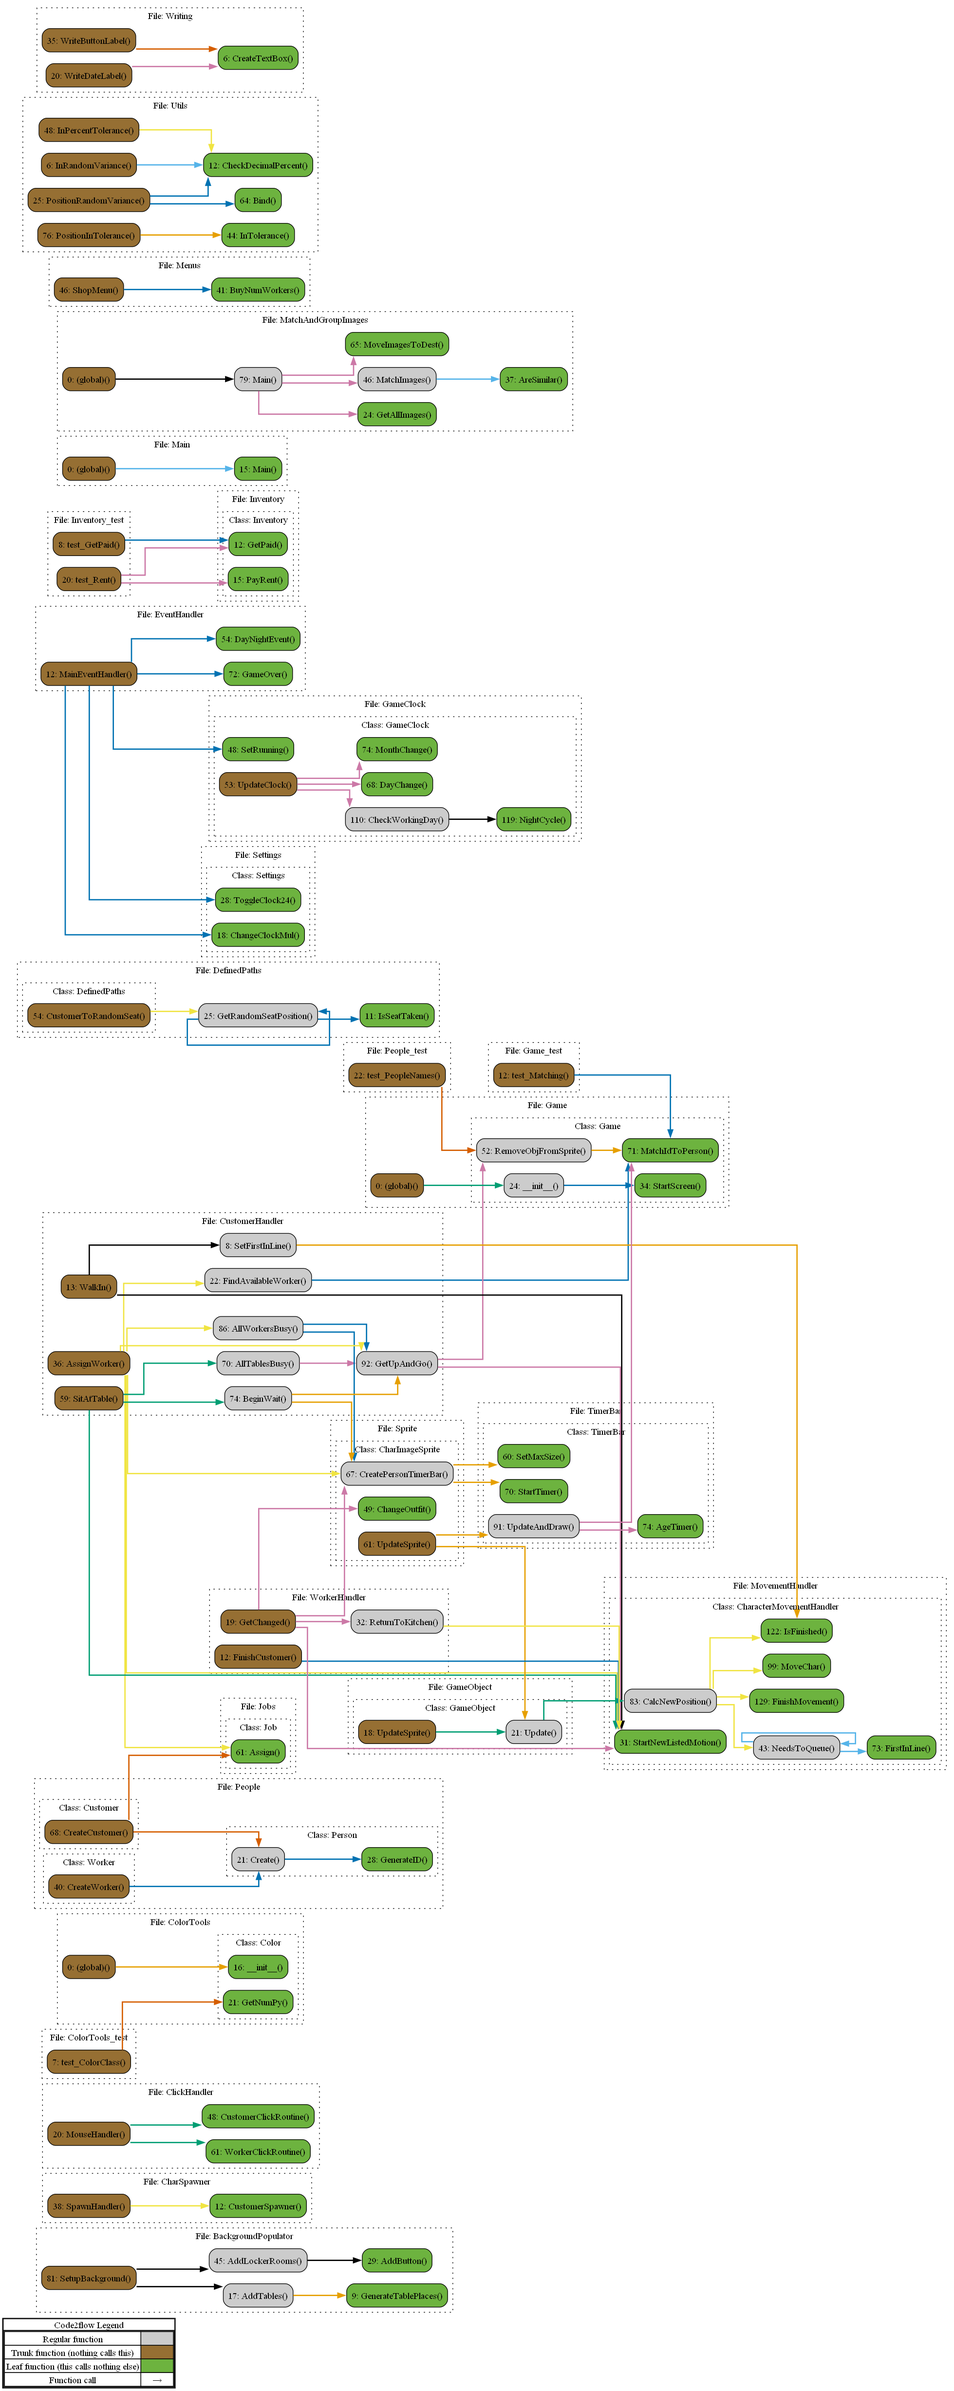
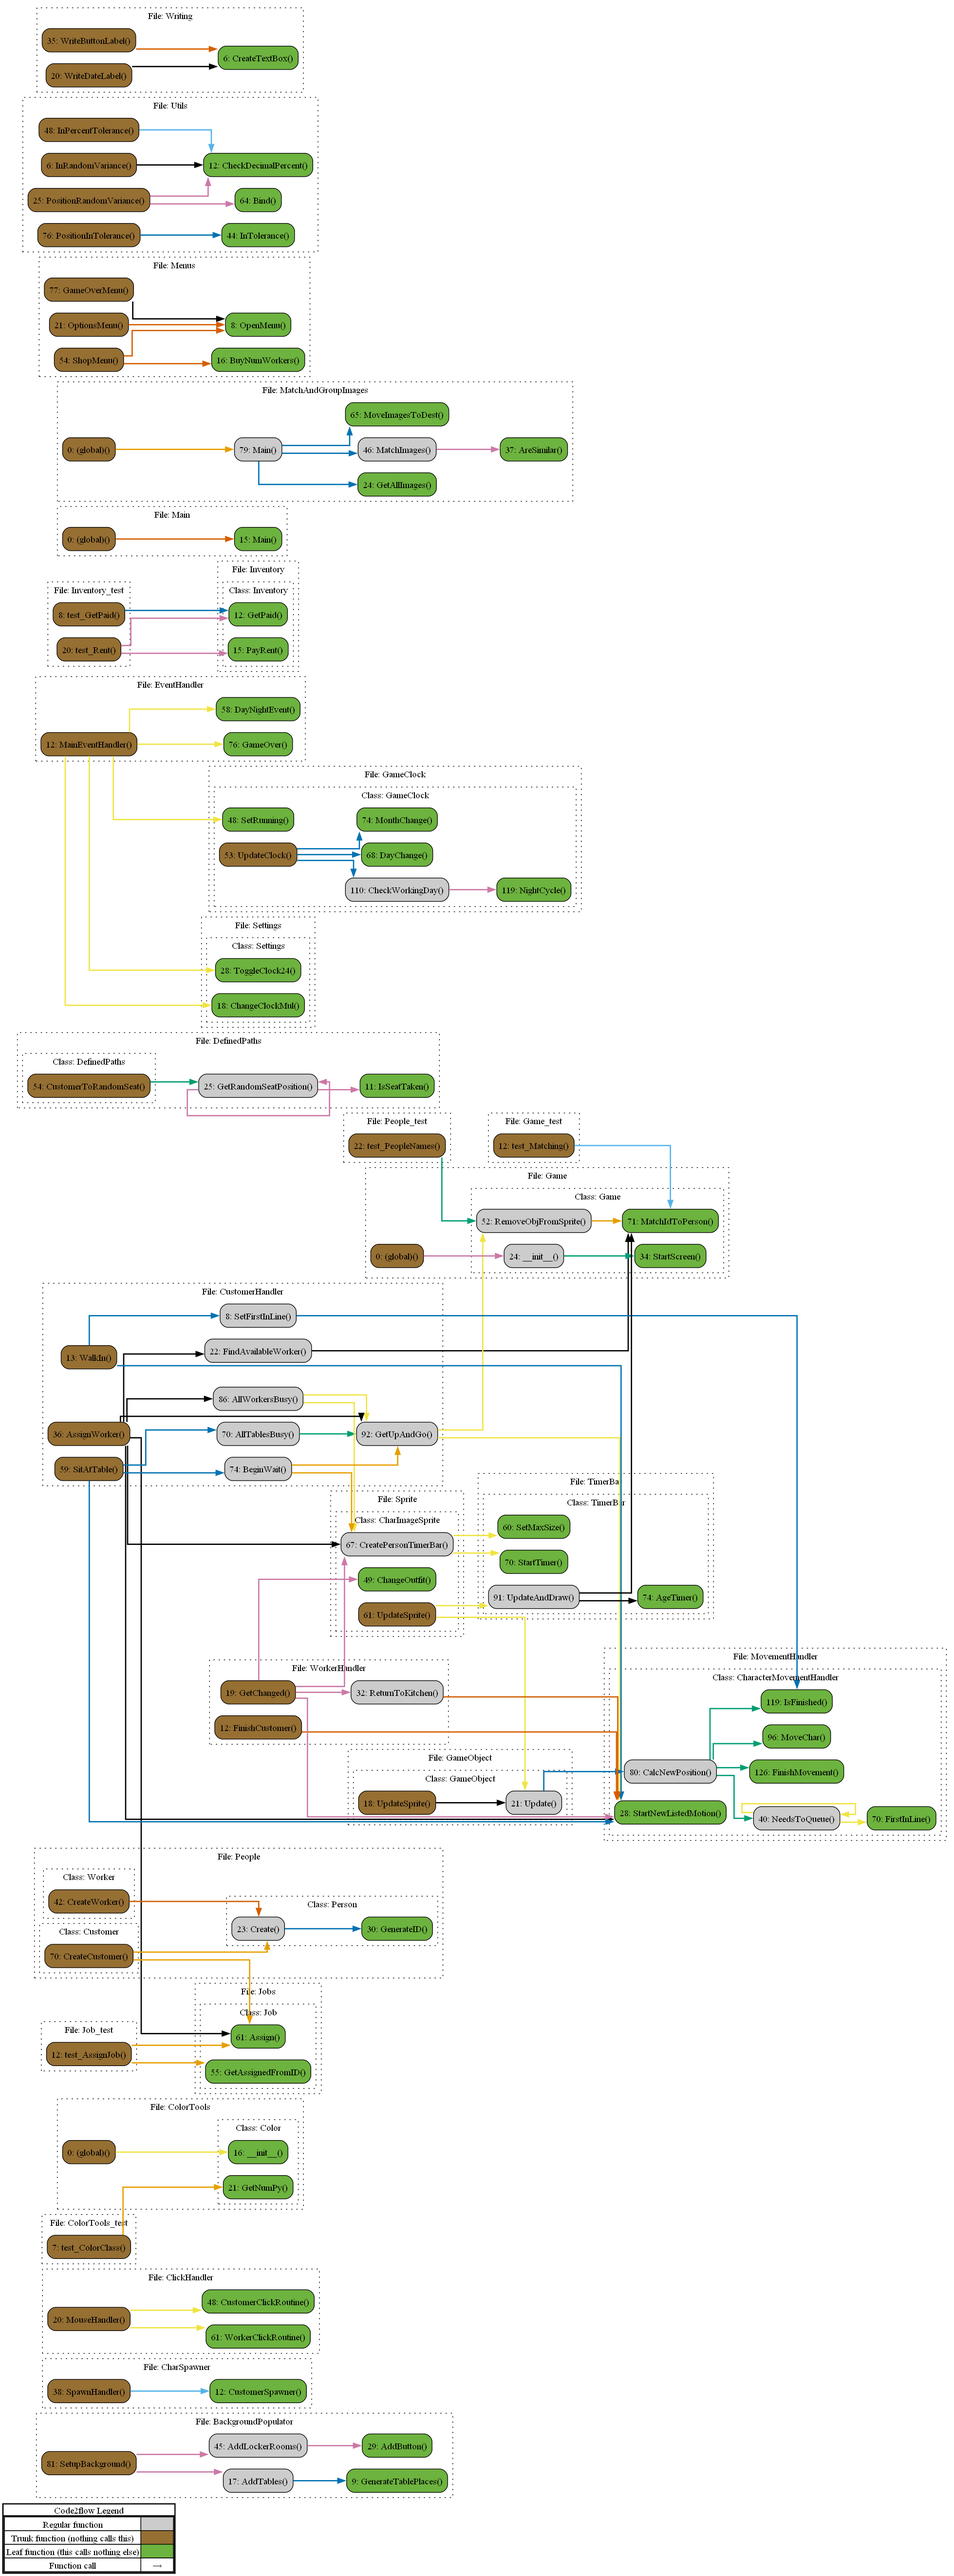
Added Tests

diff --git a/Classes/People.py b/Classes/People.py
@@ -1,10 +1,12 @@
 """Class for People DataClasses"""
-from dataclasses import dataclass
 import random
+from dataclasses import dataclass
+
 import names
-from Classes import Jobs, Sprite, Game
-from Definitions import DefinedLocations, CustomerDefs, AssetLibrary
+
 import Utilities.Utils as utils
+from Classes import Game, Jobs, Sprite
+from Definitions import AssetLibrary, CustomerDefs, DefinedLocations
 
 IDCOUNT = 1
 
@@ -41,7 +43,7 @@ class Worker(Person):
         cls,
         startLocation=DefinedLocations.LocationDefs.KitchenLocation,
         activeGame=Game.MasterGame,
-    ) -> "Worker":
+    ) -> tuple:
         worker = cls.Create()
         workerSprite = Sprite.CharImageSprite(
             position=utils.PositionRandomVariance(
@@ -69,7 +71,7 @@ class Customer(Person):
         cls,
         startLocation=DefinedLocations.LocationDefs.CustomerEntrance,
         activeGame=Game.MasterGame,
-    ) -> "Customer":
+    ) -> tuple:
         cust = cls.Create()
         activeGame.JobList.append(Jobs.Job.SpawnJob())
         activeGame.JobList[-1].Assign(cust)

diff --git a/Utilities/Structure/ParseDot.py b/Utilities/Structure/ParseDot.py
@@ -25,3 +25,19 @@ with open("packages.dot", "r", encoding="utf8") as fp:
             docString.append(line)
 with open("packages.dot", "w", encoding="utf8") as fp:
     fp.writelines(docString)
+
+
+docString = []
+with open("classes.dot", "r", encoding="utf8") as fp:
+    for line in fp:
+        if "->" in line:
+            importer = line.split(" ")[0].replace('"', "")
+            imported = line.split(" ")[2].replace('"', "")
+            if "State" not in line and "Type" not in line:
+                docString.append(line)
+        else:
+            if "rankdir" in line:
+                line = line.replace("rankdir=BT", "rankdir=TB")
+            docString.append(line)
+with open("classes.dot", "w", encoding="utf8") as fp:
+    fp.writelines(docString)

diff --git a/Testing/Job_test.py b/Testing/Job_test.py
@@ -1,8 +1,19 @@
 """Test Module for Job Functions"""
 # pylint: disable=invalid-name
 
-from Classes import Jobs
+from Classes import Game, Jobs, People
 
 
 def test_Job() -> None:
-    assert Jobs.Job.SpawnJob() is not None
+    job = Jobs.Job.SpawnJob()
+    assert job is not None
+
+
+def test_AssignJob() -> None:
+    currentGame = Game.Game()
+    worker, _ = People.Worker.CreateWorker(activeGame=currentGame)
+    customer, _ = People.Customer.CreateCustomer(activeGame=currentGame)
+    customer.DesiredJob.Assign(target=worker)
+    assert (worker, customer) == customer.DesiredJob.GetAssignedFromID(
+        jobList=currentGame.JobList, targetID=customer.DesiredJob.JobId
+    )
